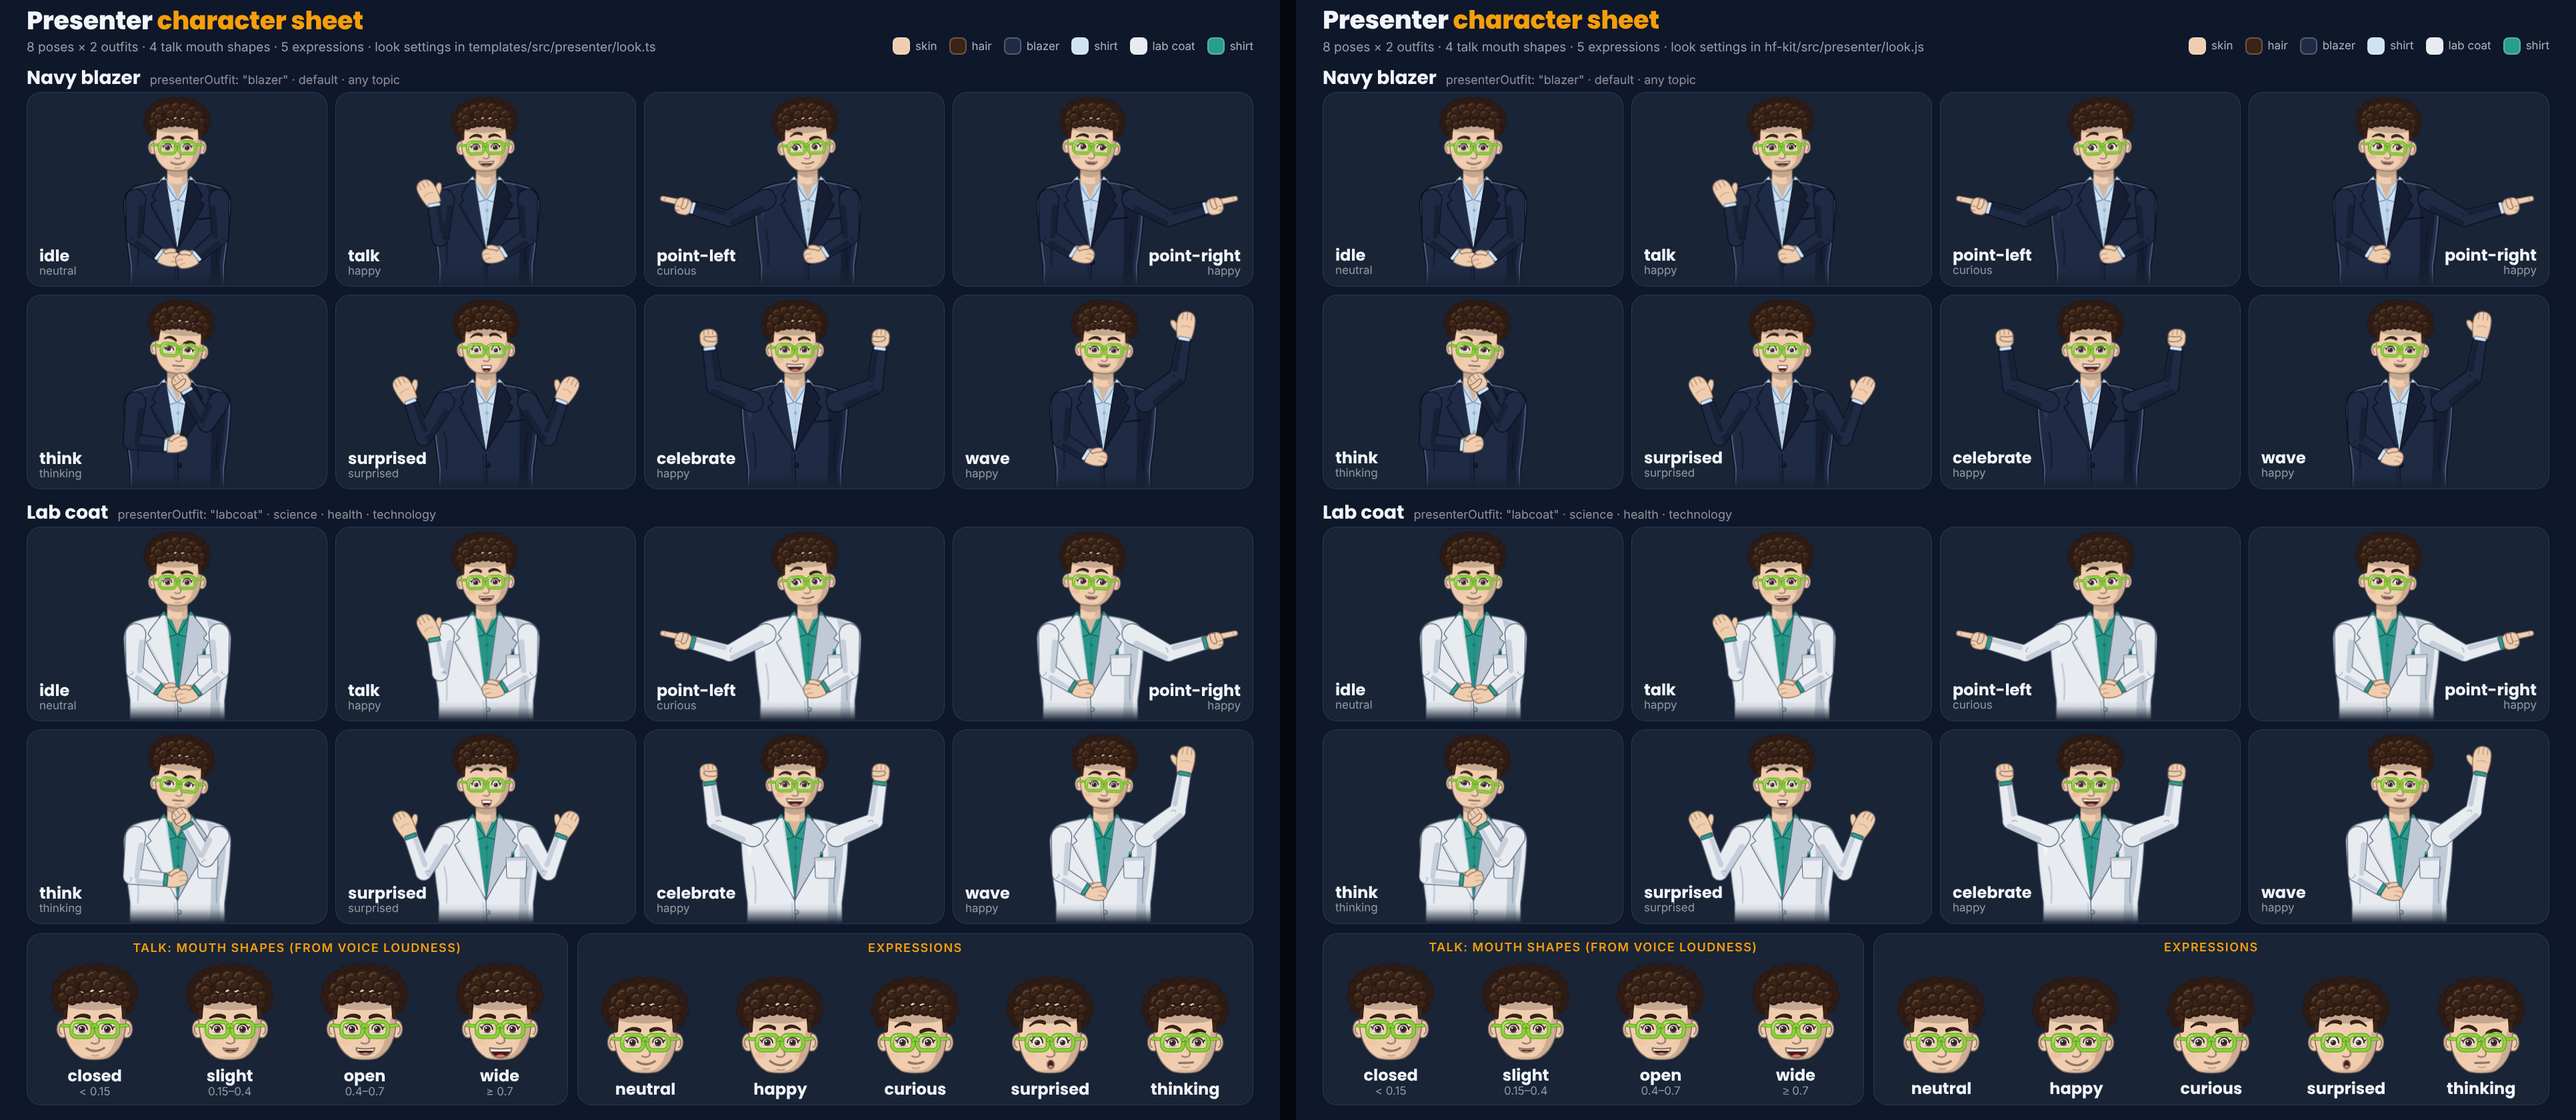
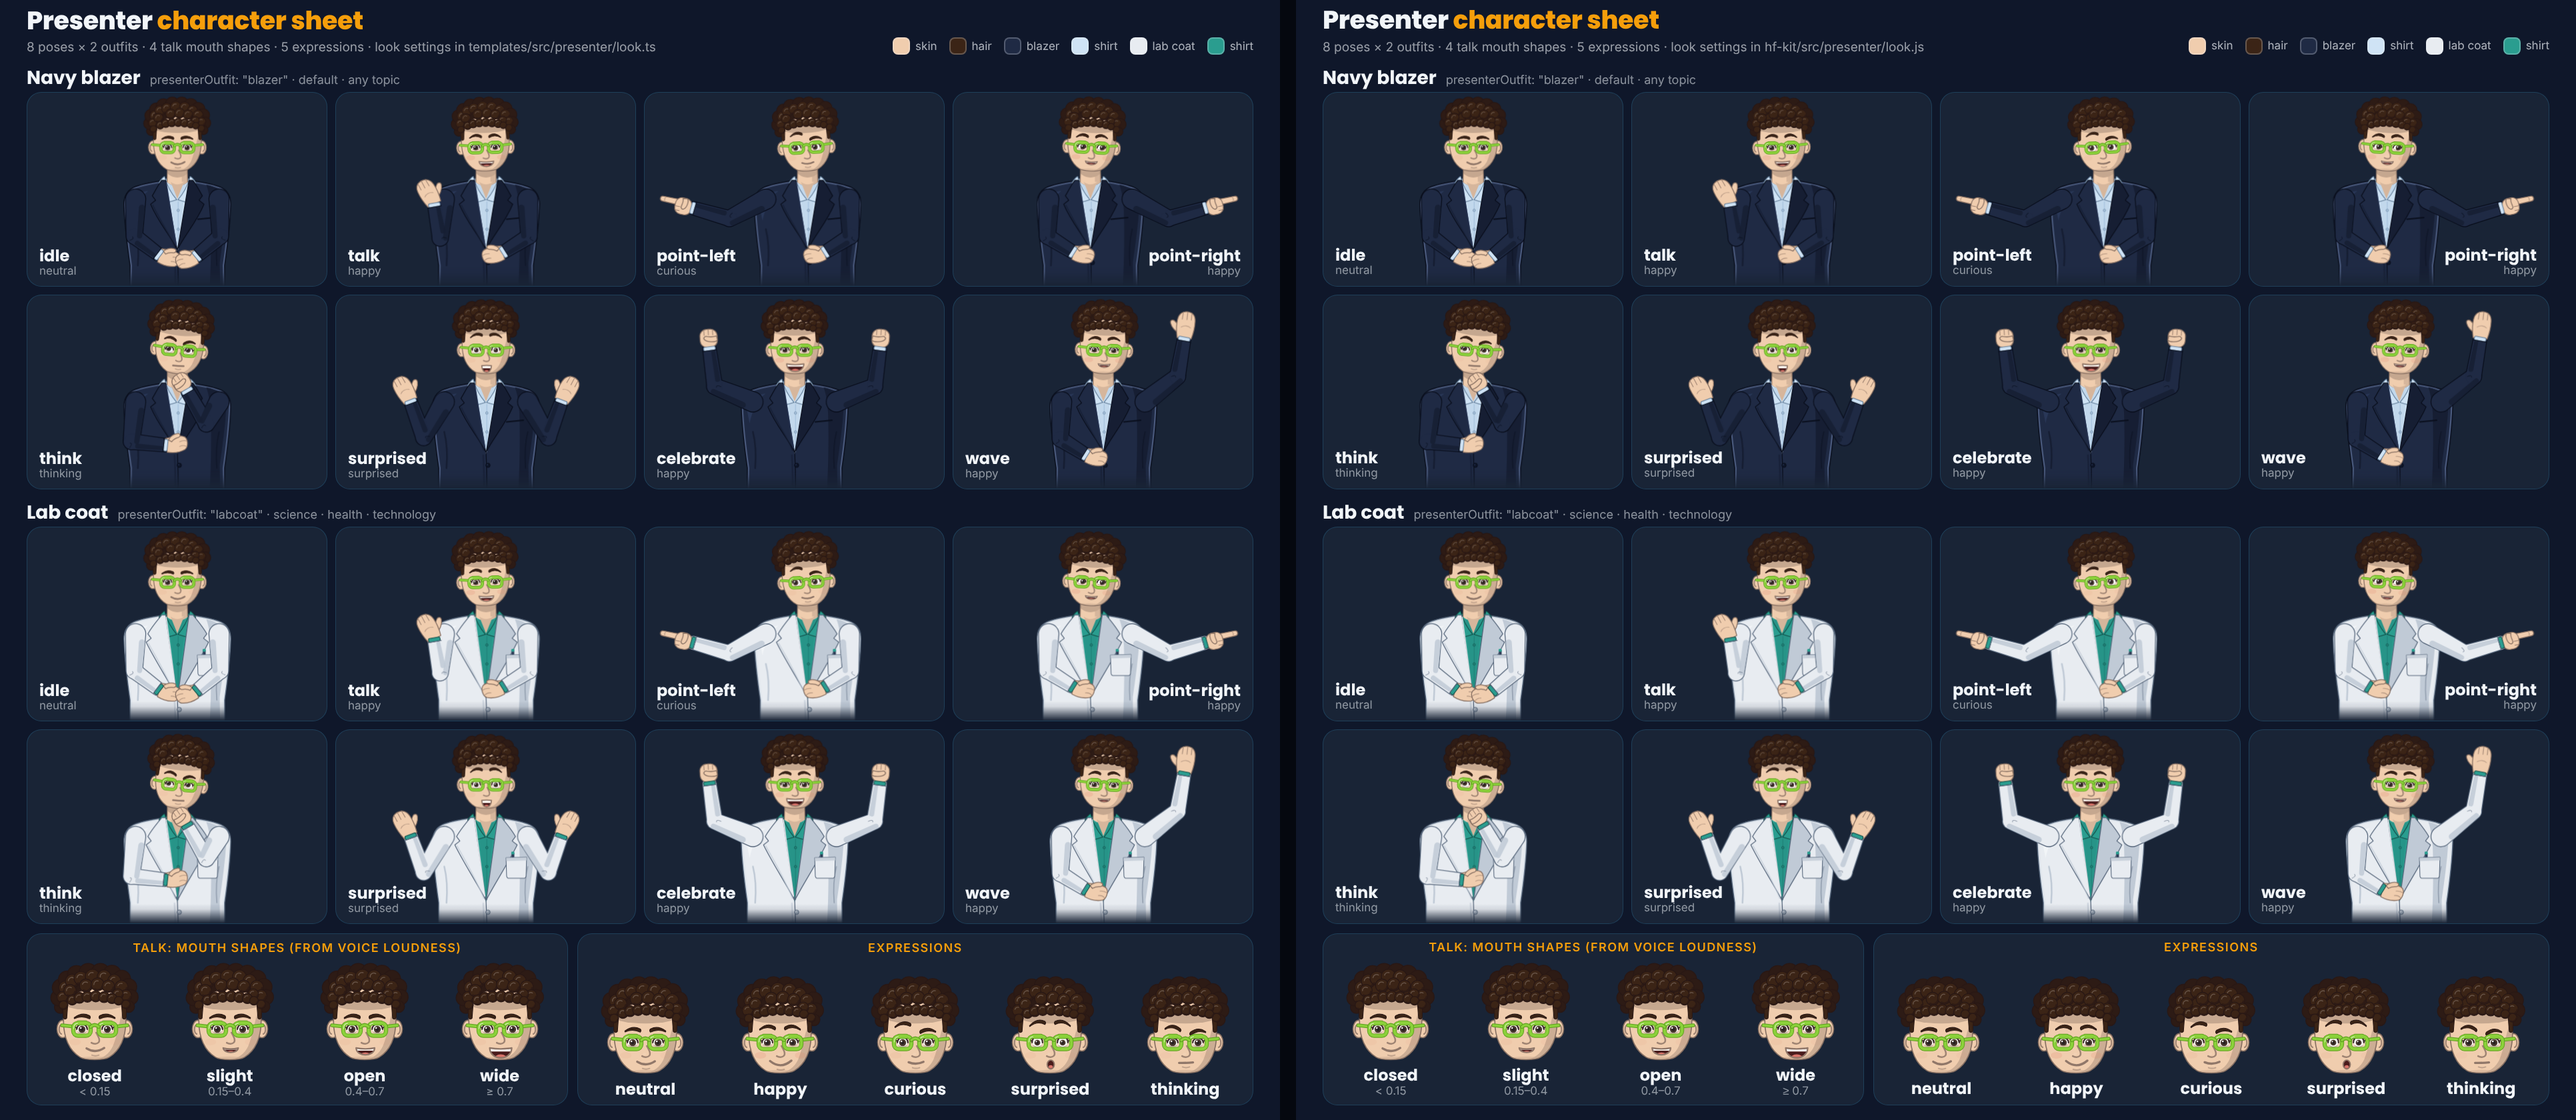
fix: trim lime glasses to fit the face
Claude-Session: https://claude.ai/code/session_01Tz5zWaGgMzak1Zwa8mwzTk

diff --git a/templates/src/presenter/parts/Face.tsx b/templates/src/presenter/parts/Face.tsx
@@ -8,10 +8,10 @@ const EYE_RX = 13.5;
 const EYE_RY = 13.5;
 
 /** Thick lime-green acetate glasses: rounded-rectangle lenses centred on the eyes. */
-const LENS_W = 58;
-const LENS_H = 42;
+const LENS_W = 48;
+const LENS_H = 35;
 const LENS_Y = EYE_Y + 1;
-const LENS_R = 15;
+const LENS_R = 13;
 const RIM = 8;
 const RIM_EDGE = 11.5;
 
@@ -160,15 +160,18 @@ const Glasses: React.FC<{ pal: Palette }> = ({ pal }) => {
     <g data-glasses="lime-thick">
       {([-1, 1] as const).map((sd) => {
         const cx = sd * EYE_X;
-        const arm = `M ${sd * (EYE_X + hw)} ${LENS_Y - 9} L ${sd * 90} ${LENS_Y - 11}`;
+        const top = `M ${cx - hw + LENS_R * 1.1} ${LENS_Y - hh} L ${cx + hw - LENS_R * 1.1} ${LENS_Y - hh}`;
+        const arm = `M ${sd * (EYE_X + hw)} ${LENS_Y - 8} L ${sd * 90} ${LENS_Y - 11}`;
         return (
           <g key={sd}>
             <rect {...lens(cx)} fill="#DCEBFF" opacity={0.1} />
-            <path d={`M ${cx - 20} ${LENS_Y + 10} L ${cx - 8} ${LENS_Y - 12}`} stroke="#FFFFFF" strokeWidth={3} strokeLinecap="round" opacity={0.22} />
+            <path d={`M ${cx - 16} ${LENS_Y + 8} L ${cx - 6} ${LENS_Y - 10}`} stroke="#FFFFFF" strokeWidth={3} strokeLinecap="round" opacity={0.22} />
             <path d={arm} {...round} stroke={pal.glassesEdge} strokeWidth={RIM_EDGE - 1.5} />
             <path d={arm} {...round} stroke={pal.glasses} strokeWidth={RIM - 1.5} />
             <rect {...lens(cx)} fill="none" stroke={pal.glassesEdge} strokeWidth={RIM_EDGE} />
+            <path d={top} {...round} stroke={pal.glassesEdge} strokeWidth={RIM_EDGE + 2} />
             <rect {...lens(cx)} fill="none" stroke={pal.glasses} strokeWidth={RIM} />
+            <path d={top} {...round} stroke={pal.glasses} strokeWidth={RIM + 2} />
             <path
               d={`M ${cx - hw + 1} ${LENS_Y - 2} Q ${cx - hw + 1} ${LENS_Y - hh + 1} ${cx - hw + 12} ${LENS_Y - hh + 1}`}
               {...round}

diff --git a/hf-kit/src/presenter/parts.js b/hf-kit/src/presenter/parts.js
@@ -122,7 +122,7 @@
 
   var EYE_X = 35, EYE_Y = 226, EYE_RX = 13.5, EYE_RY = 13.5;
   /* Thick lime-green acetate glasses: rounded-rectangle lenses centred on the eyes. */
-  var LENS_W = 58, LENS_H = 42, LENS_Y = EYE_Y + 1, LENS_R = 15;
+  var LENS_W = 48, LENS_H = 35, LENS_Y = EYE_Y + 1, LENS_R = 13;
   var RIM = 8, RIM_EDGE = 11.5;
 
   function eyeNode(pal, side, face, blink, gazeX, gazeY) {
@@ -236,14 +236,17 @@
     var kids = [];
     [-1, 1].forEach(function (sd) {
       var cx = sd * EYE_X;
-      var arm = "M " + sd * (EYE_X + hw) + " " + (LENS_Y - 9) + " L " + sd * 90 + " " + (LENS_Y - 11);
+      var top = "M " + (cx - hw + LENS_R * 1.1) + " " + (LENS_Y - hh) + " L " + (cx + hw - LENS_R * 1.1) + " " + (LENS_Y - hh);
+      var arm = "M " + sd * (EYE_X + hw) + " " + (LENS_Y - 8) + " L " + sd * 90 + " " + (LENS_Y - 11);
       kids.push(h("g", { "data-part": sd < 0 ? "glasses-left" : "glasses-right" }, [
         lens(cx, { fill: "#DCEBFF", opacity: 0.1 }),
-        line("M " + (cx - 20) + " " + (LENS_Y + 10) + " L " + (cx - 8) + " " + (LENS_Y - 12), 3, "#FFFFFF", { opacity: 0.22 }),
+        line("M " + (cx - 16) + " " + (LENS_Y + 8) + " L " + (cx - 6) + " " + (LENS_Y - 10), 3, "#FFFFFF", { opacity: 0.22 }),
         line(arm, RIM_EDGE - 1.5, edge),
         line(arm, RIM - 1.5, lime),
         lens(cx, { fill: "none", stroke: edge, "stroke-width": RIM_EDGE }),
+        line(top, RIM_EDGE + 2, edge),
         lens(cx, { fill: "none", stroke: lime, "stroke-width": RIM }),
+        line(top, RIM + 2, lime),
         // glint on the frame, top-left corner
         line("M " + (cx - hw + 1) + " " + (LENS_Y - 2) + " Q " + (cx - hw + 1) + " " + (LENS_Y - hh + 1) + " " + (cx - hw + 12) + " " + (LENS_Y - hh + 1),
           2.4, "#FFFFFF", { opacity: 0.6 }),

diff --git a/tools/dashboard/static/sprites.js b/tools/dashboard/static/sprites.js
@@ -915,7 +915,7 @@ export function starPoster(b, x, y, outfit = "blazer") {
   const hx = cx - 5, hy = iy + ih - 20;
   const face = [
     "..hhHhHh..", ".hHhHhhhh.", "hhHhhHhhhh", "hhkKKKkkhh", "hkKkkkkkzh",
-    "hGGGGGGGGh", "hGKeGGeKGh", ".EEEkkEEE.", ".kkkmmkzz.", "..kkkkzz..", "...zzzz...",
+    "hkGGGGGGkh", "hkGeGGeGkh", ".kEEkkEEk.", ".kkkmmkzz.", "..kkkkzz..", "...zzzz...",
   ];
   const map = { h: P.hair[2], H: P.hair[3], k: P.skin[2], K: P.skin[3], z: P.skin[1], G: P.glasses[1], E: P.glasses[0], e: "#1a1020", m: "#a85a4a" };
   face.forEach((row, j) => [...row].forEach((ch, i) => { if (map[ch]) b.set(hx + i, hy + j, map[ch]); }));
